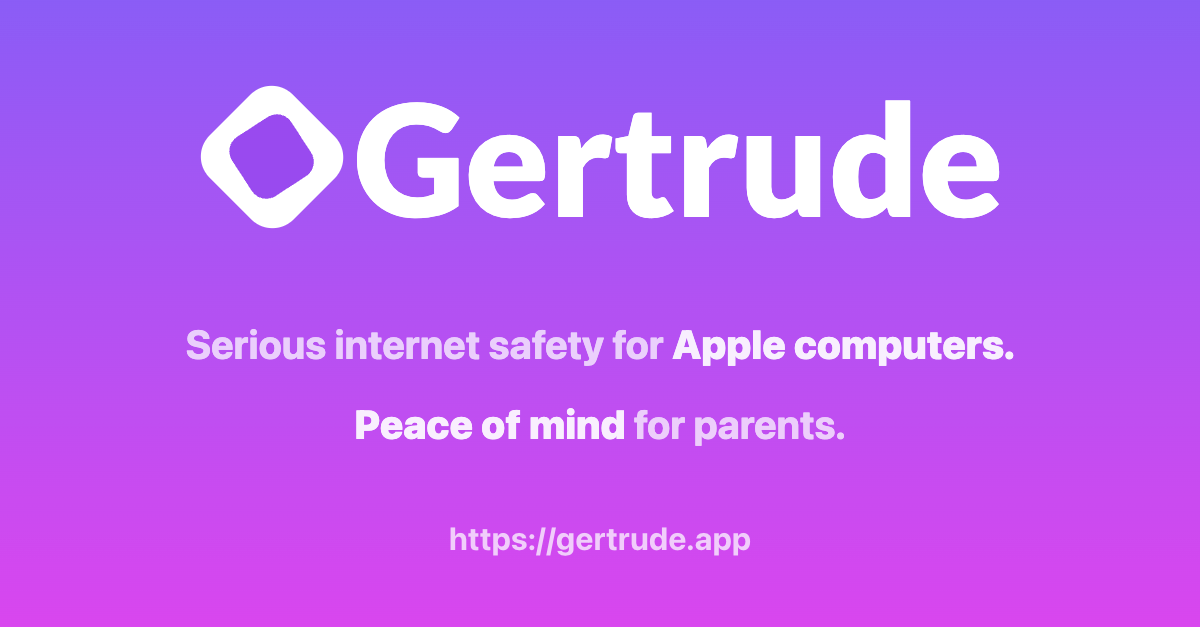
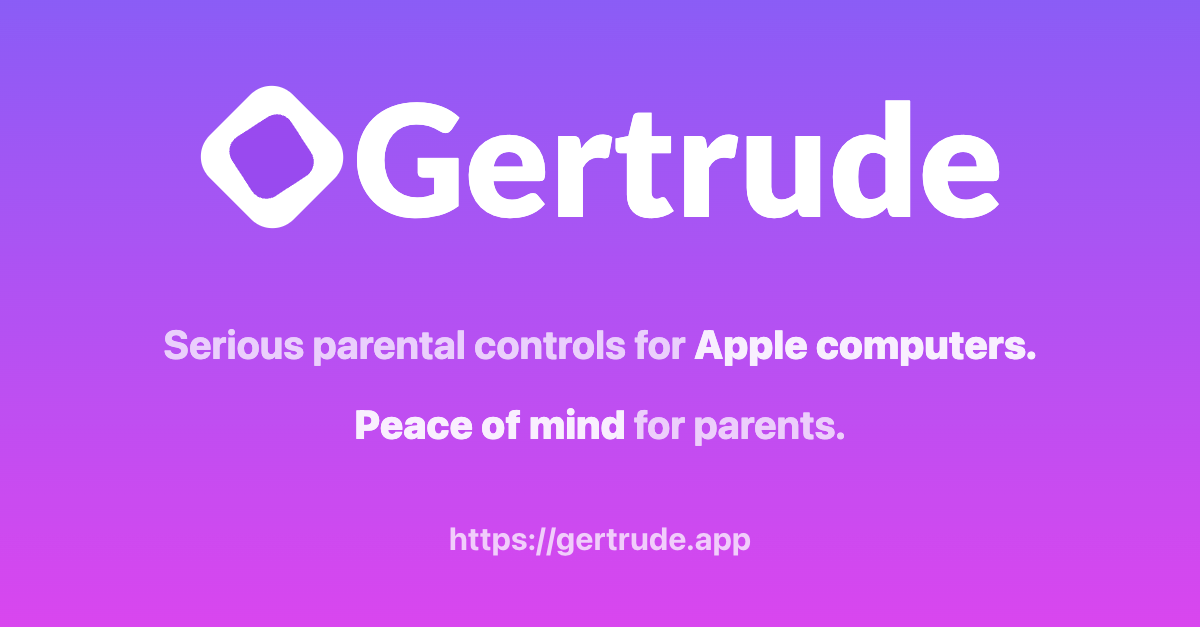
tweak og:image

Changed region(s): [[0.1233, 0.5152, 0.8633, 0.6061]]

diff --git a/site/components/src/OgImage.tsx b/site/components/src/OgImage.tsx
@@ -13,7 +13,7 @@ const OgImage: React.FC = () => (
     </div>
     <div className="h-1/2 grow text-[40px] text-center flex flex-col space-y-5">
       <div className="text-white text-opacity-70 font-bold">
-        Serious internet safety for{` `}
+        Serious parental controls for{` `}
         <b className="text-opacity-90 text-white font-extrabold">Apple computers.</b>
       </div>
       <div className="text-white text-opacity-70 font-bold">
